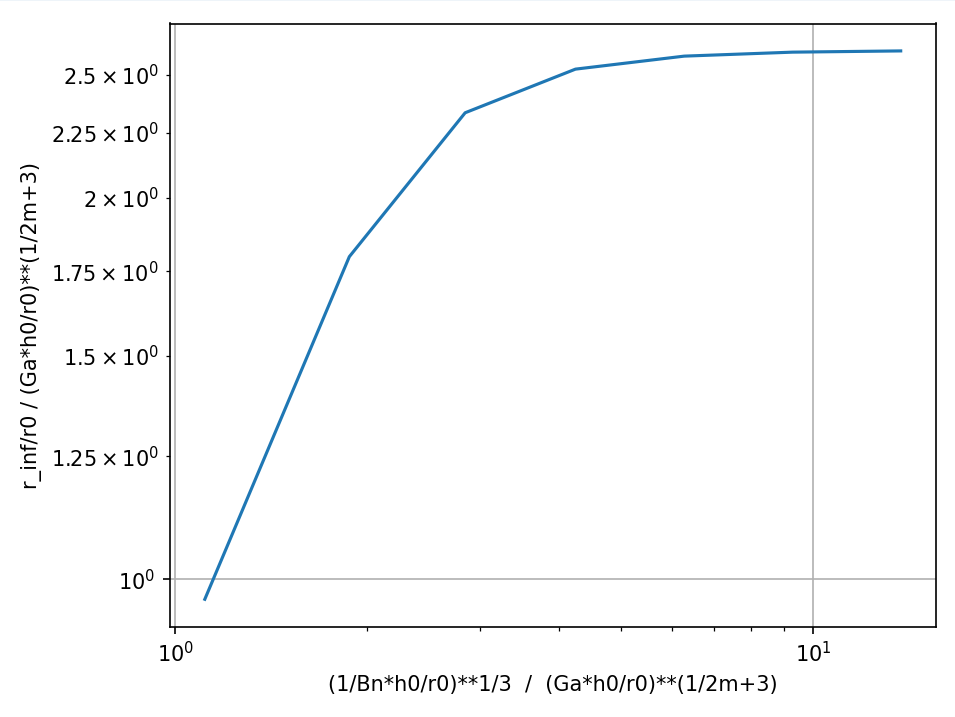
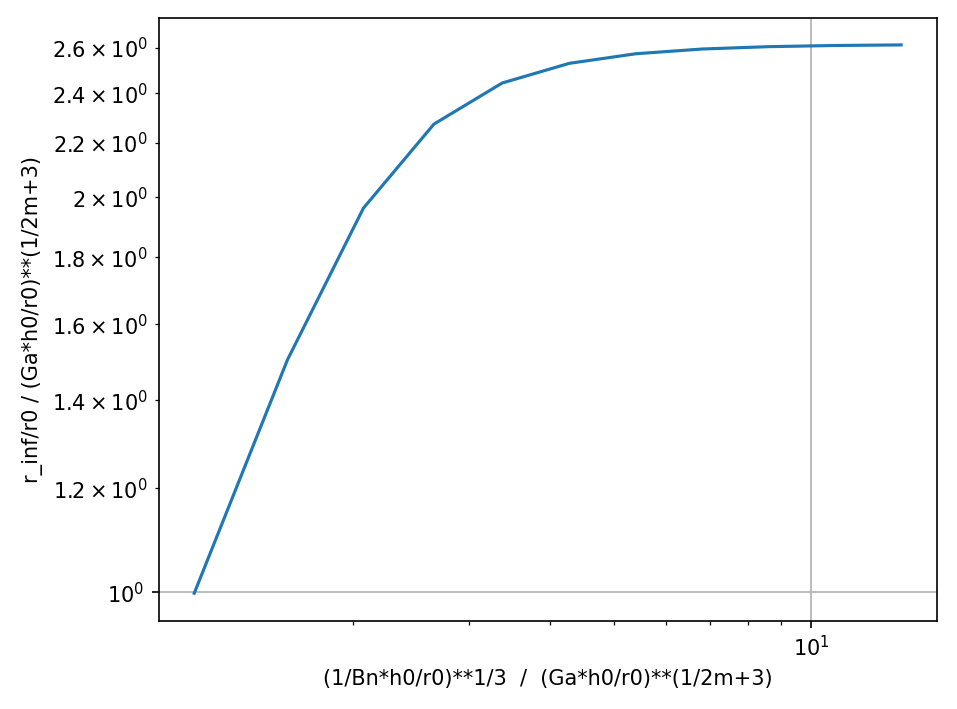
readme

diff --git a/modeleKV_VP_Regimes.py b/modeleKV_VP_Regimes.py
@@ -45,7 +45,6 @@ def modeleKV_solve(
 
         return [dRdt, dUdt, dGammadt]
 
-
     # Conditions initiales
     y0 = [r0, 0.0, 0.0]
 
@@ -66,7 +65,7 @@ def modeleKV_solve(
 
 
 # Paramètres
-Tau0 = np.logspace(1e-3, 30, 60)
+Tau0 = np.logspace(1e-3, 40, 100)
 
 h0 = 0.2
 r0 = 0.1
@@ -99,28 +98,30 @@ for i, tau0 in enumerate(Tau0):
         / (k ** (1 / m) * (rho * g * h0**2 / r0) ** (2 / 3))
     )
 
-    rows.append({
-        "T": T.tolist(),
-        "r_inf": R[-1],
-        "g": g,
-        "rho": rho,
-        "h0": h0,
-        "r0": r0,
-        "k": k,
-        "tau0": tau0,
-        "m": m,
-        "h0/r0": h0 / r0,
-        "r_inf/r0": R[-1] / r0,
-        "h_inf": h0 * (r0 / R[-1]) ** 2,
-        "h_inf/h0": (r0 / R[-1]) ** 2,
-        "Uc": uc,
-        "Ucr": ucr,
-        "Uc/Ucr": uc / ucr,
-        "Ga": Ga[i],
-        "Bn": Bn[i],
-        "(Ga*h0/r0)**(1/2m+3)": xGa[i],
-        "(1/Bn*h0/r0)**1/3": xBn[i],
-    })
+    rows.append(
+        {
+            "T": T.tolist(),
+            "r_inf": R[-1],
+            "g": g,
+            "rho": rho,
+            "h0": h0,
+            "r0": r0,
+            "k": k,
+            "tau0": tau0,
+            "m": m,
+            "h0/r0": h0 / r0,
+            "r_inf/r0": R[-1] / r0,
+            "h_inf": h0 * (r0 / R[-1]) ** 2,
+            "h_inf/h0": (r0 / R[-1]) ** 2,
+            "Uc": uc,
+            "Ucr": ucr,
+            "Uc/Ucr": uc / ucr,
+            "Ga": Ga[i],
+            "Bn": Bn[i],
+            "(Ga*h0/r0)**(1/2m+3)": xGa[i],
+            "(1/Bn*h0/r0)**1/3": xBn[i],
+        }
+    )
 
 
 df = pd.DataFrame(rows)

diff --git a/modeleKV_VPE_LoiEchelle.py b/modeleKV_VPE_LoiEchelle.py
@@ -61,37 +61,16 @@ def r_fin(
     return x1, x2, x3, y1, y2, U[-1]
 
 
-# Fonctions qui fixent les Bn, Ga et El pour garantir l'entrée dans un régime
-
-
-def fixe_Bn(h0, Bn, rho=1e3, g=9.81):
-    # Retourne tau0
-    return Bn * rho * g * h0
-
-
-"""
-def fixe_Ga(h0, Ga, rho=1e3, g=9.81, uc=1):  # Quelle valeur de Uc ?
-    # Retourne k
-    return rho * g * h0**2 / (uc * Ga)
-"""
-
-
-def fixe_El(h0, El, r0=0.1, rho=1e3, g=9.81):
-    # Retourne G
-    return El * rho * g * h0**2 / r0
-
-
 # Simulations pour chaque régime
 H0 = [0.05, 0.1, 0.25, 0.3, 0.50, 0.65, 0.8, 1.0]
-# H0 = [0.25]
 Sim_visc = np.zeros((len(H0), 6))
 Sim_plas = np.zeros((len(H0), 6))
 Sim_elas = np.zeros((len(H0), 6))
 
 for i, h0 in enumerate(H0):
-    Sim_visc[i] = r_fin(h0=h0, k=50, tau0=fixe_Bn(h0, 1e-6), G=fixe_El(h0, 1e-6))
-    Sim_plas[i] = r_fin(h0=h0, tau0=20, k=1e-6, G=fixe_El(h0, 1e-10), N=10**6)
-    Sim_elas[i] = r_fin(h0=h0, G=300, tau0=fixe_Bn(h0, 1e-6), k=1e-8, N=10**5)
+    Sim_visc[i] = r_fin(h0=h0, k=50, tau0=1e-6, G=1e-6)
+    Sim_plas[i] = r_fin(h0=h0, tau0=20, k=1e-6, G=1e-10)
+    Sim_elas[i] = r_fin(h0=h0, G=300, tau0=1e-6, k=1e-8, N=10**5)
 
 
 # Pour vérifier que U_fin est bien ~ 0

diff --git a/modeleKV_solve.py b/modeleKV_solve.py
@@ -68,39 +68,6 @@ def modeleKV_solve(
     return 1 - h_inf / h0, T, R, U, Gamma
 
 
-def modeleKV_Euler(
-    h0, r0, rho, k, Bn, sigma=5e-2, m=1, g=9.81, G=50, M=0, Di=0, dt=1e-3, N=10**4
-):
-    tau0 = Bn * rho * g * h0
-    eta = Di * tau0 * (g / h0) ** (1 / 2)
-    dt_eff = dt / (1 + k / 100)
-
-    # Initialisation
-    R = np.zeros(N + 1)
-    R[0] = r0
-    U = np.zeros(N + 1)
-    Gamma = np.zeros(N + 1)
-
-    # Itération
-    for i in range(N):
-        R[i + 1] = dt_eff * U[i] + R[i]
-        gamma_p = U[i] * (R[i] / r0) ** 2 / h0
-        tauT = (
-            (k + eta) * abs(gamma_p) ** m * np.sign(gamma_p)
-            + tau0
-            + G * Gamma[i]
-            - rho * g * h0 * (r0 / R[i]) ** 2
-            - M * g / (np.pi * R[i])
-            + sigma * r0 * (r0 / R[i] - 1)
-        )
-        Gamma[i + 1] = dt_eff * gamma_p + Gamma[i]
-        U[i + 1] = -dt_eff * (R[i] / r0) ** 2 / (rho * h0) * tauT + U[i]
-
-    h_inf = h0 * (r0 / R[N]) ** 2
-
-    return 1 - h_inf / h0
-
-
 if __name__ == "__main__":
     # Paramètres
 

diff --git a/modeleM2.py b/modeleM2.py
@@ -1,7 +1,7 @@
 import numpy as np
 import matplotlib.pyplot as plt
 
-## Modèle de Hescher-Bukley + Maxwell
+## Modèle de Maxwell
 
 # -----------------------------
 # Paramètres numériques

diff --git a/modeleM.py b/modeleM.py
@@ -1,7 +1,7 @@
 import numpy as np
 import matplotlib.pyplot as plt
 
-## Modèle de Hescher-Bukley + Maxwell
+## Modèle de Maxwell
 
 # Temps final N*dt
 N = 10**5  # Nombre d'itérations

diff --git a/READ ME.md b/READ ME.md
@@ -1,0 +1,52 @@
+# Viscoplastic Squeeze
+
+## Modèle de Kelvin Voigt
+
+### Implémentation du modèle
+
+modeleKV.py : 
+* Résoud le système avec une méthode d'Euler explicite. 
+* Trace le rayon, la vitesse et la déformation en fonction du temps.
+
+modeleKV_solve.py :
+* Résoud le système avec solve_ivp de scipy.integrate.
+* Trace le rayon, la vitesse et la déformation en fonction du temps.
+
+### Visualisation des différents régimes et lois d'échelle
+En dam break, c'est-à-dire sans plaque supérieure.
+
+modeleKV_VPE_Contraintes.py :
+* Calcule la contribution de chaque contrainte pour le régime visqueux, le régime plastique, le régime élastique et un régime mixte. On se met dans un régime en nulifiant les autres contribution (par exemple, pour le régime visqueux, on met $\tau_0\approx 0$ et $G\approx 0$).
+* Trace la contribution de ces contraintes (valeur de la contrainte, normalisée par la contrainte principale - le poids) dans chaque cas.
+* Permet une première vérification du modèle : cohérence entre les contraintes principales et le régime de dissipation.
+
+modeleKV_VPE_LoiEchelle.py :
+* Calcule le rayon final dans chacun des trois régimes, pour différentes valeurs de hauteur initiale de colonne.
+* Trace pour chaque régime, le rayon final (ou maximal pour le régime élastique, puisque le rayon ne converge pas physiquement) normalisé, en fonction de $(Ga\frac{h_0}{r_0})^{\frac{1}{2m+3}}$ pour le régime visqueux, de $(\frac{1}{Bn}\frac{h_0}{r_0})^{\frac{1}{3}}$ pour le régime plastique et de $(\frac{1}{El}\frac{h_0}{r_0})^{\frac{1}{6}}$ pour le régime élastique. 
+* L'obtention de droites permet de valider la cohérence du modèle avec la littérature, et l'expression de la loi d'échelle élastique.
+
+modeleKV_VP_Regimes.py :
+* Utilise la méthode solve_ivp de scipy.integrate pour calculer le rayon final pour différentes valeurs de $\tau_0$.
+* Trace $\frac{r_\infty}{r_0}/(Ga\frac{h_0}{r_0})^{\frac{1}{2m+3}}$ en fonction de $(\frac{1}{Bn}\frac{h_0}{r_0})^{\frac{1}{3}}/(Ga\frac{h_0}{r_0})^{\frac{1}{2m+3}}$ pour visualiser les deux régimes et vérifier les lois d'échelle.
+
+### Comparaison avec des données expérimentales, issues de la littérature
+
+ExpData_Df.py :
+* Récupère les données expérimentales stockées dans le tableau Excel dambreak_experimental_data.xlsx
+* Les stocke dans un DataFrame
+
+modeleKV_ExpData.py :
+* Calcule les données finales pour chaque expérience.
+* Trace la hauteur normalisée calculée par le modèle et celle donnée par l'expérience, pour chaque expérience (et matériau), en fonction du rapport de vitesse caractéristique $u_c$ par la vitesse de transition de régime $u_{crossover}$.
+* Trace l'erreur entre la hauteur normalisée expérimentale et celle donnée par le modèle, en fonction de $u_c/u_{crossover}$.
+
+## Modèle de Maxwell
+
+modeleM.py :
+* Résoud le système avec une méthode Euler explicite.
+* Trace le rayon, la vitesse et la déformation en fonction du temps.
+* Diverge.
+
+modeleM2.py :
+* Version régularisée du modèle précédent, pour essayer de diminuer la divergence.
+* Diverge quand même.
